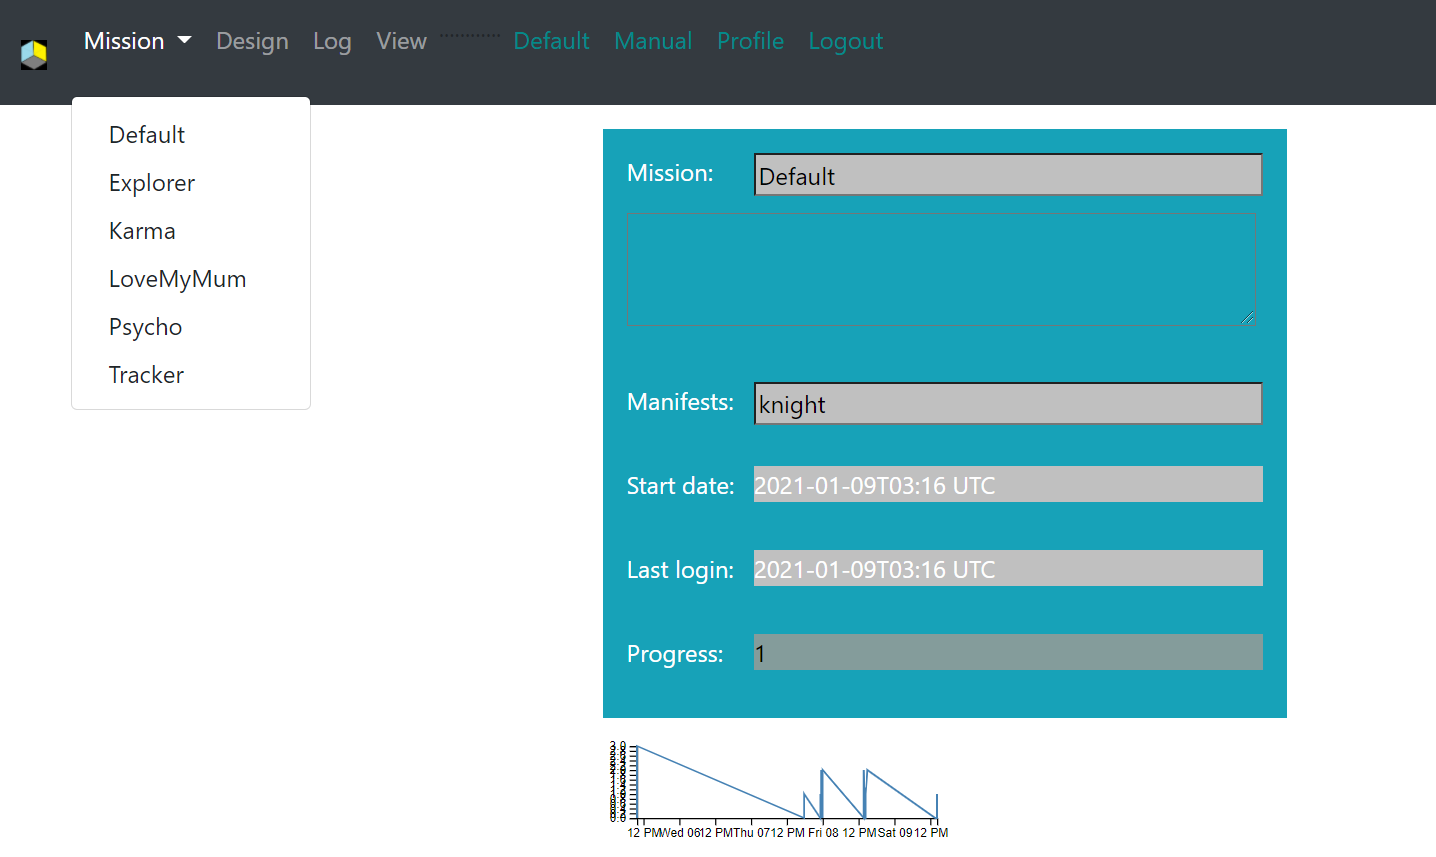
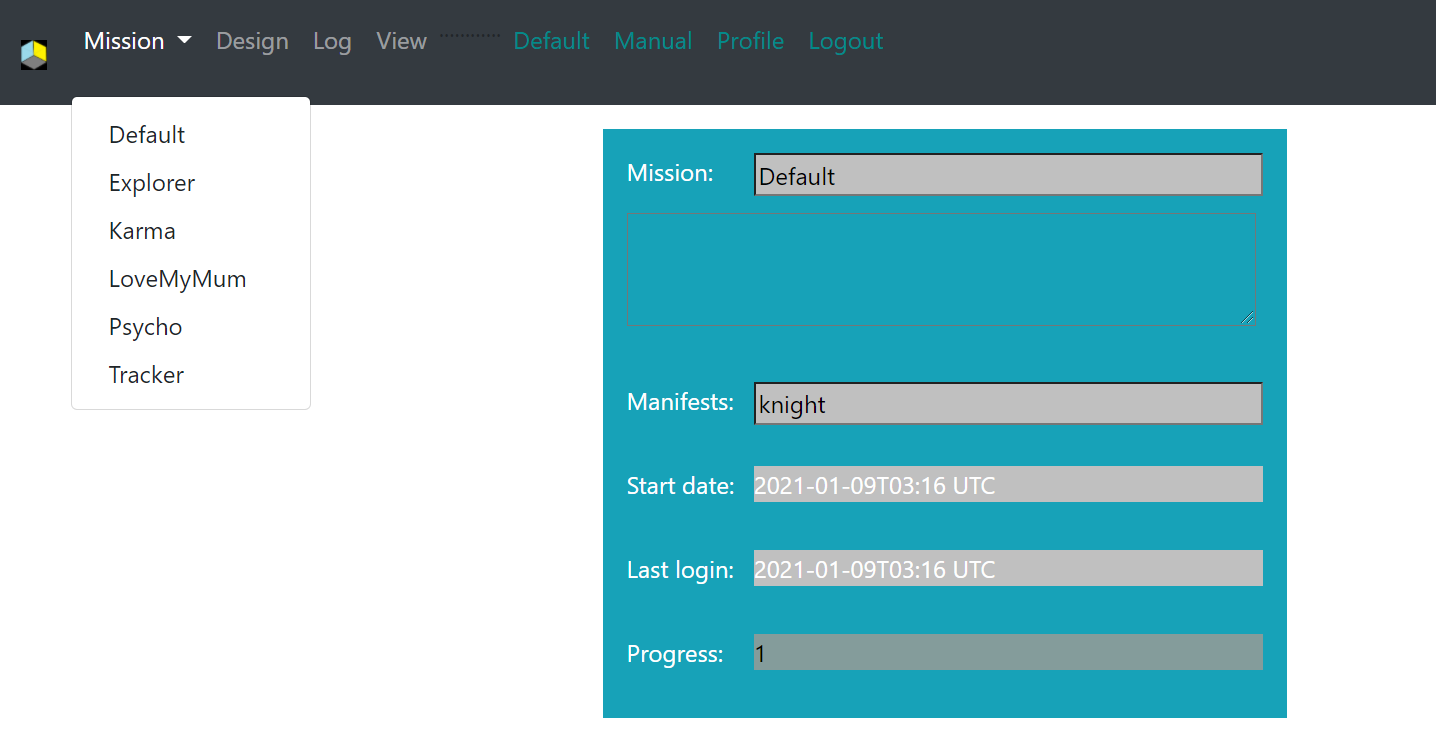
m

diff --git a/index.html b/index.html
@@ -205,6 +205,7 @@ start seeing patterns and correlations. Refine and iterate.
 This mission builds on an Eightfold Path to Perfection (Buddhist teaching). 
 The goal is to evolve your self from the lower planes of the reality 
 populated by the low-level life forms (golems and insects) to the higher realms populated by humans and gods.
+<br><br>
 
 <i>Psycho.</i>
 According to positive psychology (Peterson and Seligman, 2004), six general categories of virtues are common across 
@@ -212,37 +213,12 @@ many different cultures. The goal of this mission is to track your positioning i
 <br><br>
 Peterson, C., and Seligman, M. E. P. 2004. Character strengths and virtues. A handbook and classification. New York,
 Oxford University Press and Washington, DC - American Psychological Association.
- 
-<br><br>
+ <br><br>
 
+ Bundleverse provides a few basic visualisation tools to understand your data accumulated over the cource of 
+ the mission (see the View section below). Besides that it provides qulitative means of tracking your 
+ progress through the mission (see Manifestations section below). 
 
-<h2 id="disclaimer">1.7 Disclaimer</h2>
-We accept no responsibility for and exclude all liability in connection with browsing bundleverse.com, use of
-information or downloading any materials from it, including but not limited to any liability for errors, inaccuracies,
-omissions, or misleading or defamatory statements.
-<br><br>
-The information provided by us on bundleverse.com is for general informational purposes only. 
-We make no representation or warranty of any kind, express or implied, regarding the
-accuracy, adequacy, validity, reliability, availability or completeness of any information on the Site.
- 
-<br><br>
-
-<h2 id="termsofuse">1.8 Terms of use</h2>
-When using bundleverse.com you shall not post or send to or from this Website any material for which you have not obtained
-all necessary consents, is discriminatory, obscene, pornographic, defamatory, liable to incite racial hatred, in breach
-of confidentiality or privacy, which may cause annoyance or inconvenience to others, which encourages or constitutes
-conduct that would be deemed a criminal offence, give rise to a civil liability, or otherwise is contrary to the law in
-the Australia.
-<br><br>
-
-<br><br>
-Private data ownership<br>
-Any time users can download their records collected in Bundleverse and then
-delete the original copy on the server. Having these records downloaded and erased on a regular basis (e.g. after every
-mission), ensures that the remote server always holds only a minor fraction of these records. 
-The total collection belongs to the owner of the data. 
-It is up to this owner of the data to either share this data with others or keep it private to himself.
-<br><br>
 
  
 <h1 id="frontend">3. Navigation</h1>
@@ -256,7 +232,7 @@ To design and run missions, you must be registered with Bundleverse
 <div class="w3-main">
     <center>
         <br>
-        <img src="Navbar.png" alt="navbar">
+        <img src="NavbarAndTable.png" alt="navbar">
         <br>
     </center>
 </div>
@@ -455,6 +431,38 @@ Bundleverse provides a range of manifestations to select from and build your own
         <br>
     </center>
 
+
+<h1 id="legal"> Legal </h1>
+<h3 id="disclaimer">1.7 Disclaimer</h3>
+We accept no responsibility for and exclude all liability in connection with browsing bundleverse.com, use of
+information or downloading any materials from it, including but not limited to any liability for errors, inaccuracies,
+omissions, or misleading or defamatory statements.
+<br><br>
+The information provided by us on bundleverse.com is for general informational purposes only.
+We make no representation or warranty of any kind, express or implied, regarding the
+accuracy, adequacy, validity, reliability, availability or completeness of any information on the Site.
+
+<br><br>
+
+<h3 id="termsofuse">1.8 Terms of use</h3>
+When using bundleverse.com you shall not post or send to or from this Website any material for which you have not
+obtained
+all necessary consents, is discriminatory, obscene, pornographic, defamatory, liable to incite racial hatred, in breach
+of confidentiality or privacy, which may cause annoyance or inconvenience to others, which encourages or constitutes
+conduct that would be deemed a criminal offence, give rise to a civil liability, or otherwise is contrary to the law in
+the Australia.
+<br><br>
+
+<br><br>
+<h3 id="privacy"> Private data ownership</h3>
+Any time users can download their records collected in Bundleverse and then
+delete the original copy on the server. Having these records downloaded and erased on a regular basis (e.g. after every
+mission), ensures that the remote server always holds only a minor fraction of these records.
+The total collection belongs to the owner of the data.
+It is up to this owner of the data to either share this data with others or keep it private to himself.
+<br><br>
+
+
 <h1 id="acknowledgment">Acknowledgements:</h1>
 
 <br>
@@ -570,11 +578,8 @@ Targets built into Bundles and logging procedures are to facilitate practices.
 <br><br>
 
 
-<br><br>
-<h1 id="appendixB">Appendix: Work in progress</h1>
-<br><br>
 
-<h3 id="blog">Blogging (NOT IMPLEMENTED)</h3>
+<h3 id="appendixB">Appendix B: Blogging (NOT IMPLEMENTED)</h3>
 You can create and edit your own blog-posts. You can read posts by others but cannot edit them.
 All registered users can read your posts, but they cannot edit or delete them
 (except the admin user, who can edit and delete any blogpost).
@@ -604,7 +609,7 @@ No custom features included.
 <br><br>
 
 <br><br>
-<h3 id="skybox">SkyBox multiplayer (NOT IMPLEMENTED)</h3>
+<h3 id="appendixC">Appendix C: SkyBox multiplayer (NOT IMPLEMENTED)</h3>
 SkyBox provides a 3D representation of your mission.
 Is is built with <a href="https://threejs.org/">threejs.org</a> on top of the
 <a href="https://www.udemy.com/course/create-a-3d-multi-player-game-using-threejs-and-socketio/">
@@ -625,7 +630,7 @@ Still in early development stage.
 <br><br>
 
 <br><br>
-<h3 id="shared">Shared mode (NOT IMPLEMENTED)</h3>
+<h3 id="appendixD">Appendix D: Shared mode (NOT IMPLEMENTED)</h3>
 Having a mission established, you can run it in a private mode, or in a shared mode, or a compatitive mode. In a
 private mode you care only about youself. In a shared mode you share your progress with others. In a compatitive mode
 you compete with others.
